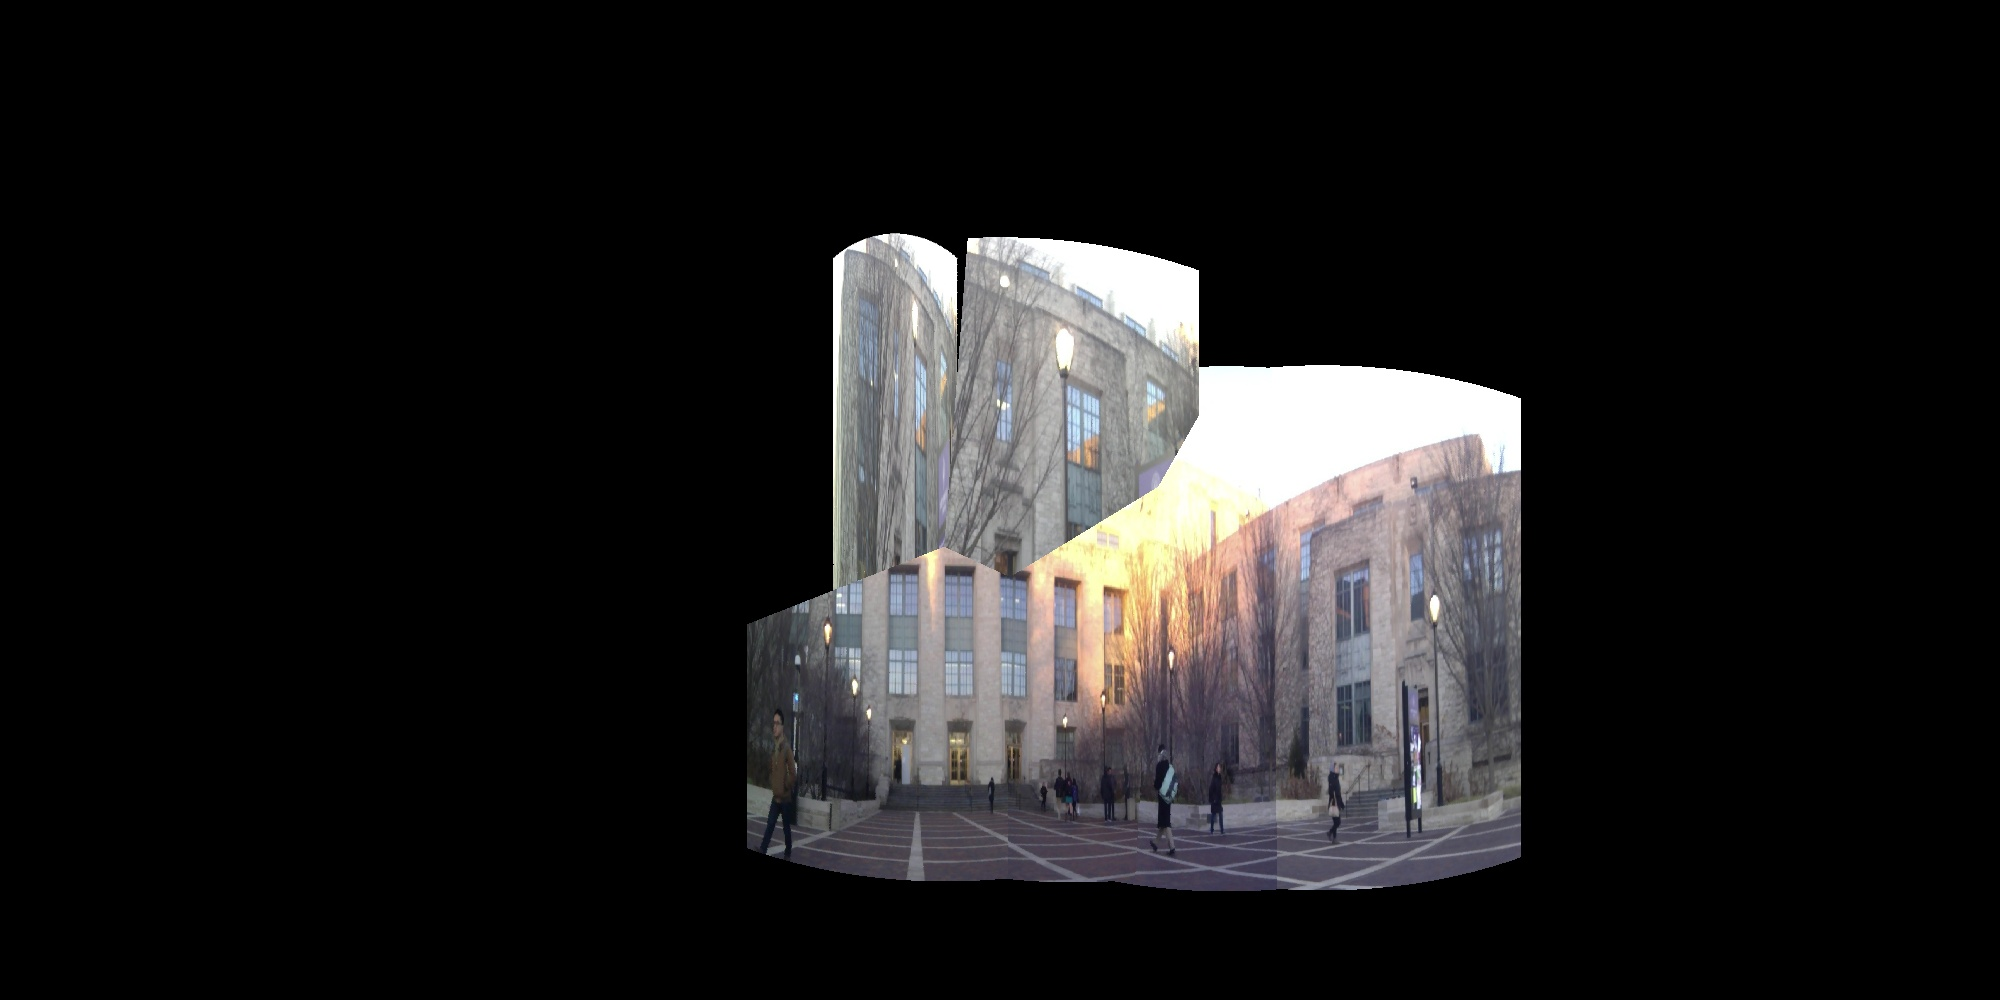
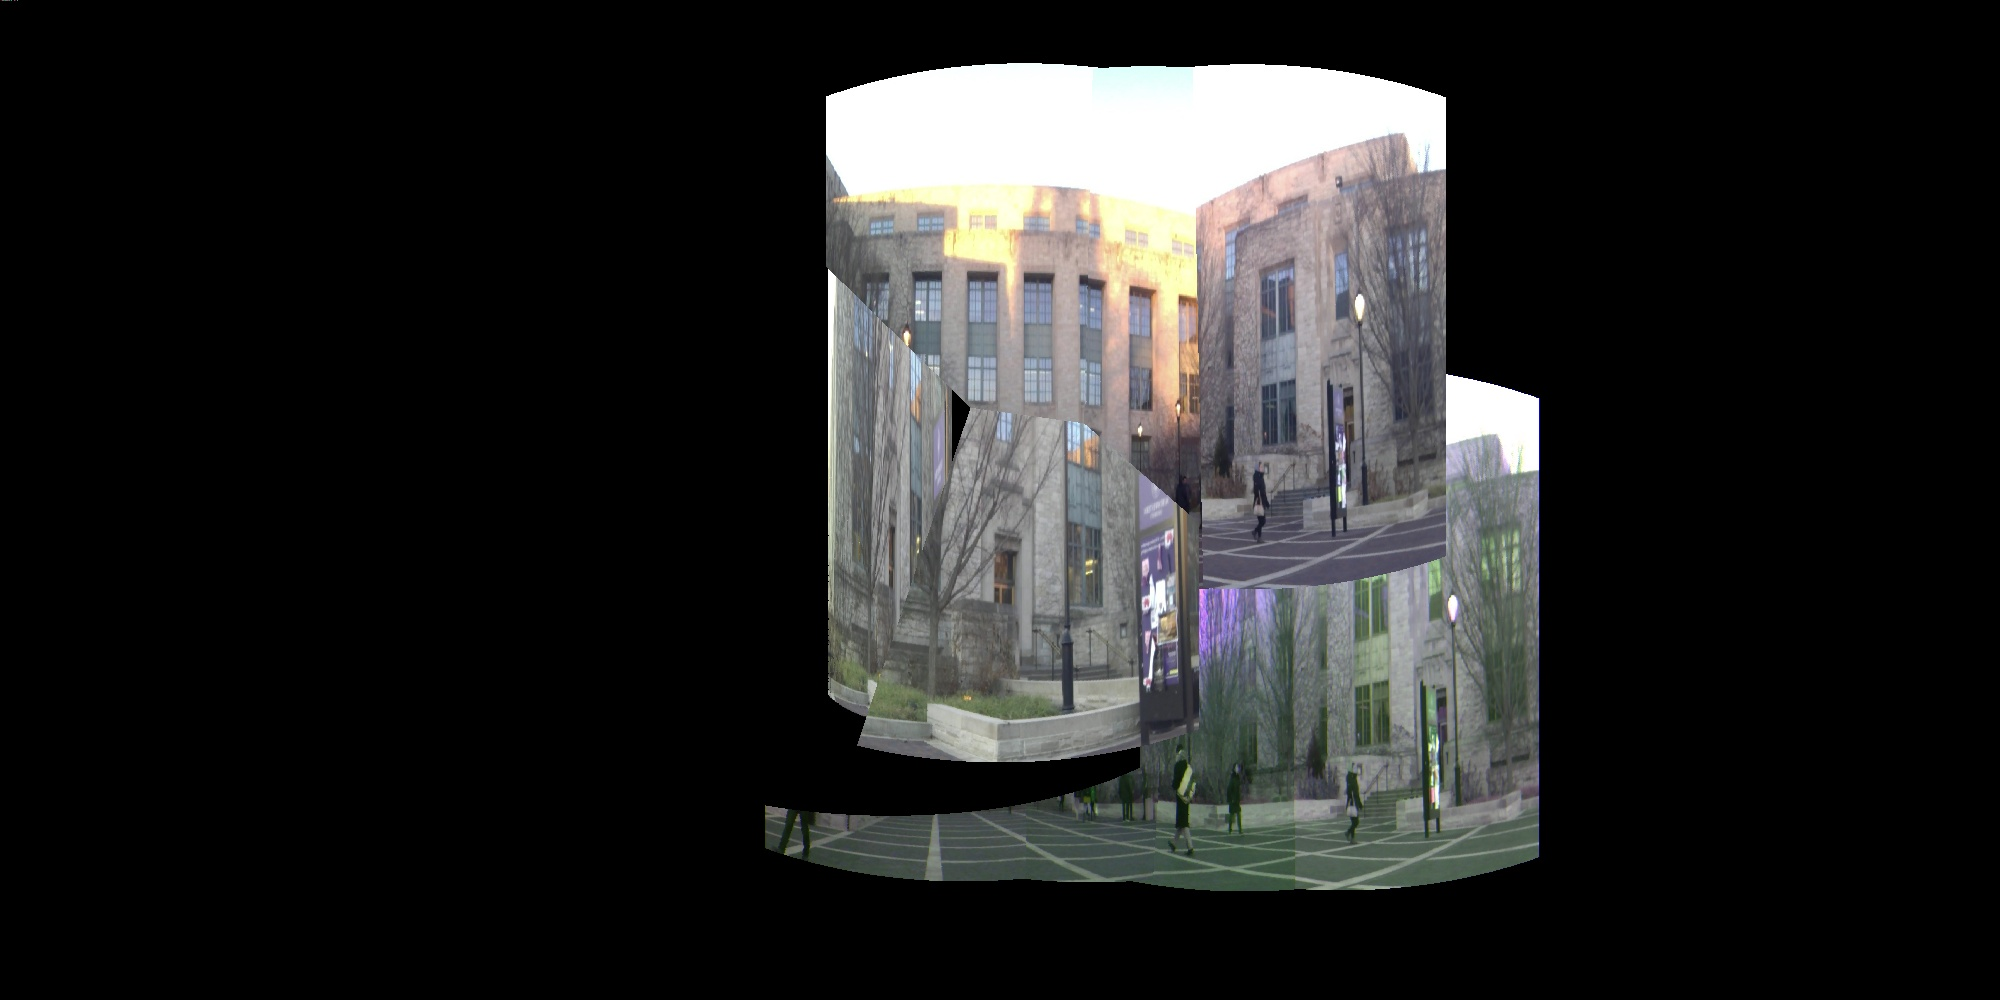
All the failed test images

Changed region(s): [[0.372, 0.062, 0.775, 0.899]]

diff --git a/src/panoramic/Panoramic.cpp b/src/panoramic/Panoramic.cpp
@@ -34,7 +34,7 @@ bool Panoramic::stitch(SphericalStitchRequest& req, SphericalStitchResponse& res
     theta_res = (int)round(double( 2. * M_PI ) / atan( 1. / s ) );
   else theta_res = req.theta_res;
   if(req.s == SphericalStitchRequest::FOCAL_LENGTH)
-    s = 500;
+    s = 520;
   else s = req.s;
 
   cv::Mat sphere( phi_res, 2*theta_res, CV_8UC3 );
@@ -320,14 +320,14 @@ void Panoramic::generate_image_transforms(cv::Mat& sphere, std::vector<WarpedPai
     min_dist = std::min_element( similar_features.begin(), similar_features.end(), nurc::DMatchDistanceCompare )->distance;
     std::vector<cv::DMatch> shared_features;
     for(int f = 0; f< query_features.rows; f++) { 
-      if( similar_features[f].distance <= std::max( 50*min_dist, 0.02 ) )
+      if( similar_features[f].distance <= std::max( 20*min_dist, 0.02 ) )
         shared_features.push_back( similar_features[f] ); 
     }
 
     //RANSAC
     // Define the maximum allowed deviation in terms of the Phi and Theta angles in radians
     ROS_INFO("Beginning RANSAC");
-    double max_phi_dev = 1.*(M_PI/180.), max_theta_dev = 1.*(M_PI/180.);
+    double max_phi_dev = 5.*(M_PI/180.), max_theta_dev = 5.*(M_PI/180.);
     double error_threshold = pow( double(max_phi_dev*max_phi_dev + max_theta_dev*max_theta_dev), 0.5 );
 
     int max_trials = shared_features.size();  // Reduce if this turns out to be too large

diff --git a/src/examples/stitch_images.cpp b/src/examples/stitch_images.cpp
@@ -68,7 +68,7 @@ int main(int argc, char** argv)
   ci.D[4] = 0.0;
   stitch_srv.request.camera_info = ci;
 
-  stitch_srv.request.s = panoramic::SphericalStitchRequest::FOCAL_LENGTH;
+  stitch_srv.request.s = 1050;
   stitch_srv.request.phi_res = stitch_srv.request.theta_res = 1000;
   stitch_srv.request.queue = images;
 
